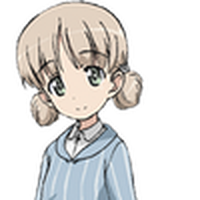
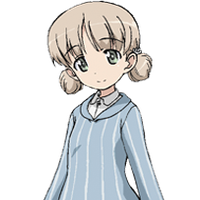
[subtask_150a] アバター全体品質改善 — 個別6キャラ再クロップ+objectPosition統一
- darjeeling: 集合写真顔アップ→公式全身画像右半分バストアップ
- nonna: 白背景→公式画像から正面バストアップ再クロップ
- anchovy: 横向き丸枠→公式全身画像から正面バストアップ
- carpaccio: 2ポーズ混入→正面のみクロップ(x=215-350)
- kinuyo: 公式元画像から正面のみ精確クロップ
- aki: 公式元画像から正面のみ精確クロップ
- objectPosition: nonna/anchovy/kinuyo/aki/mikaを20%に統一

diff --git a/web/components/shared/Avatar.tsx b/web/components/shared/Avatar.tsx
@@ -21,7 +21,7 @@ const AVATARS: Record<string, AvatarDef> = {
   oshida: { bg: "bg-violet-300", ini: "押", ring: "ring-violet-200", objectPosition: "50% 15%" },
   // カチューシャ隊
   katyusha: { bg: "bg-red-500", ini: "К", ring: "ring-red-400", objectPosition: "50% 15%" },
-  nonna: { bg: "bg-slate-400", ini: "Н", ring: "ring-slate-300", objectPosition: "50% 25%" },
+  nonna: { bg: "bg-slate-400", ini: "Н", ring: "ring-slate-300", objectPosition: "50% 20%" },
   klara: { bg: "bg-red-300", ini: "Кл", ring: "ring-red-200", objectPosition: "50% 15%" },
   mako: { bg: "bg-slate-500", ini: "麻", ring: "ring-slate-400", objectPosition: "50% 20%" },
   erwin: { bg: "bg-amber-400", ini: "Er", ring: "ring-amber-300", objectPosition: "50% 20%" },
@@ -32,16 +32,16 @@ const AVATARS: Record<string, AvatarDef> = {
   naomi: { bg: "bg-emerald-400", ini: "Na", ring: "ring-emerald-300", objectPosition: "50% 15%" },
   arisa: { bg: "bg-lime-400", ini: "Al", ring: "ring-lime-300", objectPosition: "50% 15%" },
   yukari: { bg: "bg-yellow-400", ini: "優", ring: "ring-yellow-300", objectPosition: "50% 20%" },
-  anchovy: { bg: "bg-green-400", ini: "An", ring: "ring-green-300", objectPosition: "50% 15%" },
+  anchovy: { bg: "bg-green-400", ini: "An", ring: "ring-green-300", objectPosition: "50% 20%" },
   pepperoni: { bg: "bg-orange-300", ini: "ペ", ring: "ring-orange-200", objectPosition: "50% 15%" },
   carpaccio: { bg: "bg-emerald-300", ini: "カ", ring: "ring-emerald-200", objectPosition: "50% 20%" },
   // まほ隊
   maho: { bg: "bg-purple-500", ini: "ま", ring: "ring-purple-400", objectPosition: "50% 15%" },
   erika: { bg: "bg-violet-400", ini: "エ", ring: "ring-violet-300", objectPosition: "50% 15%" },
-  mika: { bg: "bg-cyan-400", ini: "ミ", ring: "ring-cyan-300", objectPosition: "50% 15%" },
-  aki: { bg: "bg-teal-300", ini: "ア", ring: "ring-teal-200", objectPosition: "50% 25%" },
+  mika: { bg: "bg-cyan-400", ini: "ミ", ring: "ring-cyan-300", objectPosition: "50% 20%" },
+  aki: { bg: "bg-teal-300", ini: "ア", ring: "ring-teal-200", objectPosition: "50% 20%" },
   mikko: { bg: "bg-cyan-300", ini: "ミッ", ring: "ring-cyan-200", objectPosition: "50% 15%" },
-  kinuyo: { bg: "bg-purple-300", ini: "絹", ring: "ring-purple-200", objectPosition: "50% 25%" },
+  kinuyo: { bg: "bg-purple-300", ini: "絹", ring: "ring-purple-200", objectPosition: "50% 20%" },
   fukuda: { bg: "bg-purple-200", ini: "福", ring: "ring-purple-100", objectPosition: "50% 20%" },
 };
 
